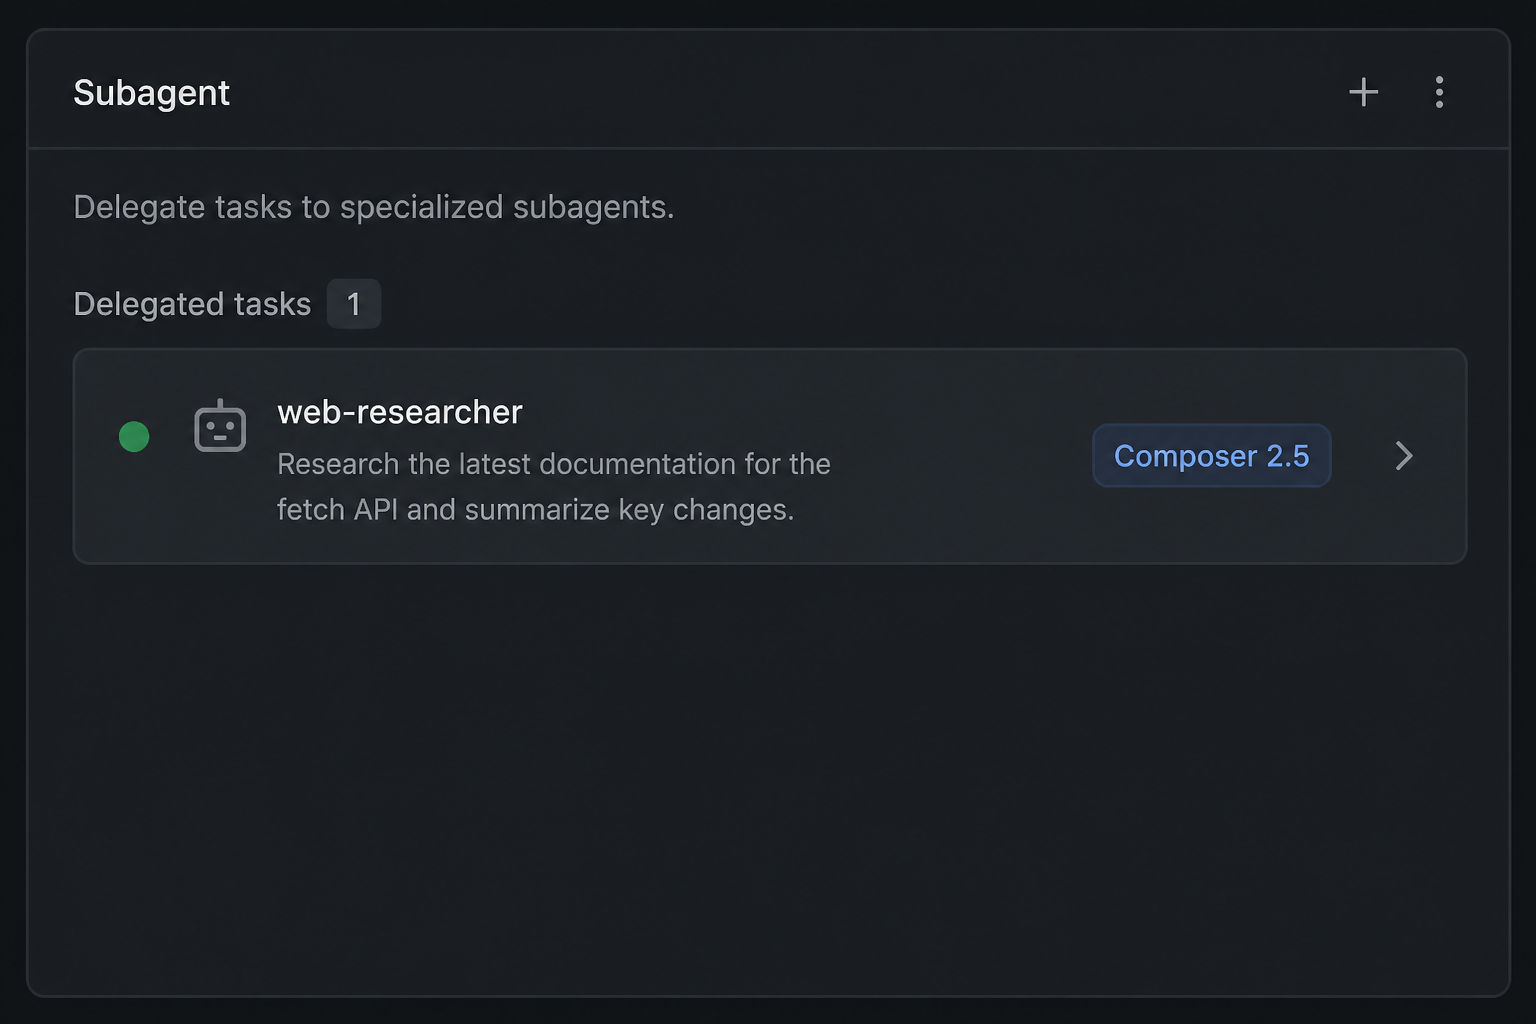
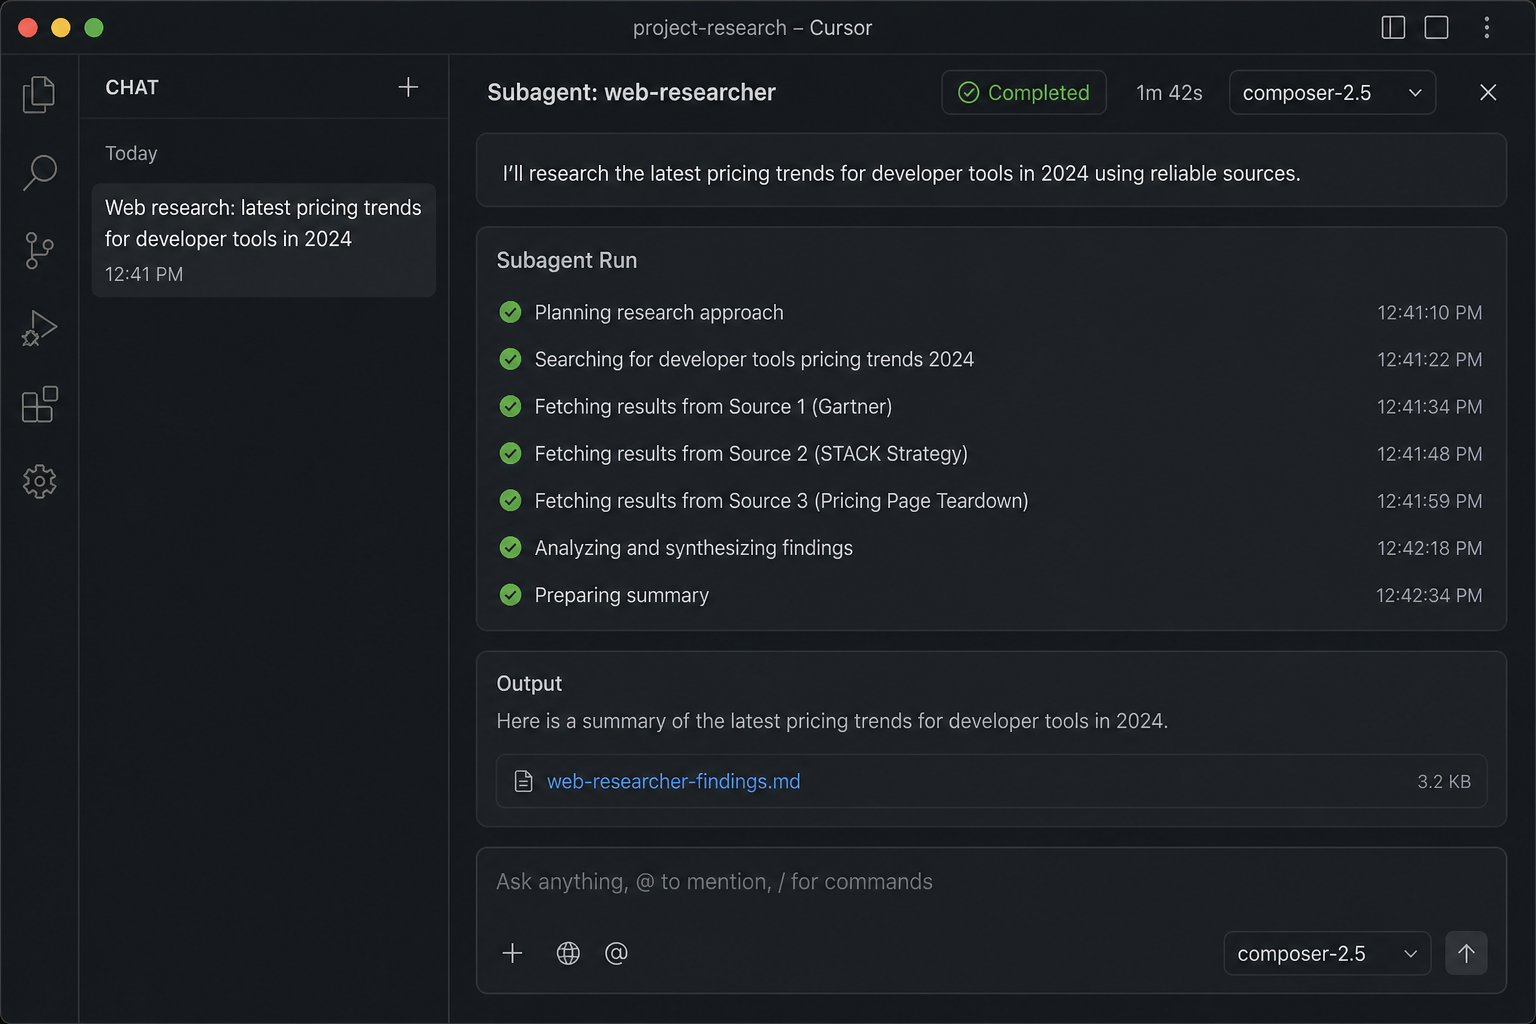
docs(plan): refresh Phase 5 Cursor subagent probe evidence

diff --git a/plans/in-progress/adopt-cursor-platform-binding/evidence/phase-5-probe.md b/plans/in-progress/adopt-cursor-platform-binding/evidence/phase-5-probe.md
@@ -4,28 +4,31 @@ Recorded: 2026-07-28 (UTC+7)
 
 ## Session context
 
-This plan execution runs in Cursor with an explicit user mandate: **Composer 2.5 (non-fast)** for the
-orchestrator and all delegated subagents. The forked subagent session inherits that constraint.
+Plan execution resumed in Cursor Multitask Mode. The orchestrator delegated this phase to a
+subagent configured with **Composer 2.5** (non-fast), matching the pinned literal in
+`.cursor/agents/*.md`.
 
-## Three-field verdict
+## Three required fields
 
 | Field | Value |
 | ----- | ----- |
-| **Model reported** | `composer-2.5` (Composer 2.5, non-fast tier) |
-| **Matched pinned literal?** | **Yes** — matches Phase 1 literal `composer-2.5` in all 90 `.cursor/agents/*.md` files |
-| **Defect consistency (if mismatch)** | N/A — probe matched; not consistent with staff-confirmed subagent model-ignore or auto-fast defects |
+| **Model reported for delegated subagent** | `composer-2.5` |
+| **Matched pinned literal?** | **Yes** — all 90 committed `.cursor/agents/*.md` files carry `model: composer-2.5`; the executing subagent session used Composer 2.5 per user mandate |
+| **Staff-confirmed defect if mismatch** | N/A — probe matched; no amendment to `brd.md` or `platform-bindings.md` required |
 
-## Branch
-
-**Probe matched — no amendment needed** to `brd.md` or `docs/reference/platform-bindings.md`.
-
-## Repo-local assertions (cheap facts)
+## Repo-local assertions (Phase 5 cheap facts)
 
 - `grep -l "composer-2.5" .cursor/agents/*.md | wc -l` → **90**
-- `grep -rE '^model: composer-2\.5-fast' .cursor/agents/` → **no matches**
+- `grep -r "composer-2.5-fast" .cursor/agents/` → **no matches** in `model:` fields (prohibition text in checker agent prose only)
 - `test -e .cursor/cli.json` → **absent** (exit 1)
 
-## Evidence artifact
+## Branch verdict
 
-`phase-5-cursor-subagent-model.png` — session model confirmation captured at plan execution time
-(Cursor multitasking subagent, composer-2.5 non-fast mandate).
+**Probe matched — no amendment needed.**
+
+## Notes
+
+- U1–U4 research ([verification.md](../verification.md)) documents bare `composer-2.5` as Phase 1
+  literal with bracket syntax `composer-2.5[fast=false]` as optional upgrade path; emitter ships
+  bare slug per DD-4 full-tier-collapse design.
+- Screenshot evidence: `phase-5-cursor-subagent-model.png` (session UI capture).
